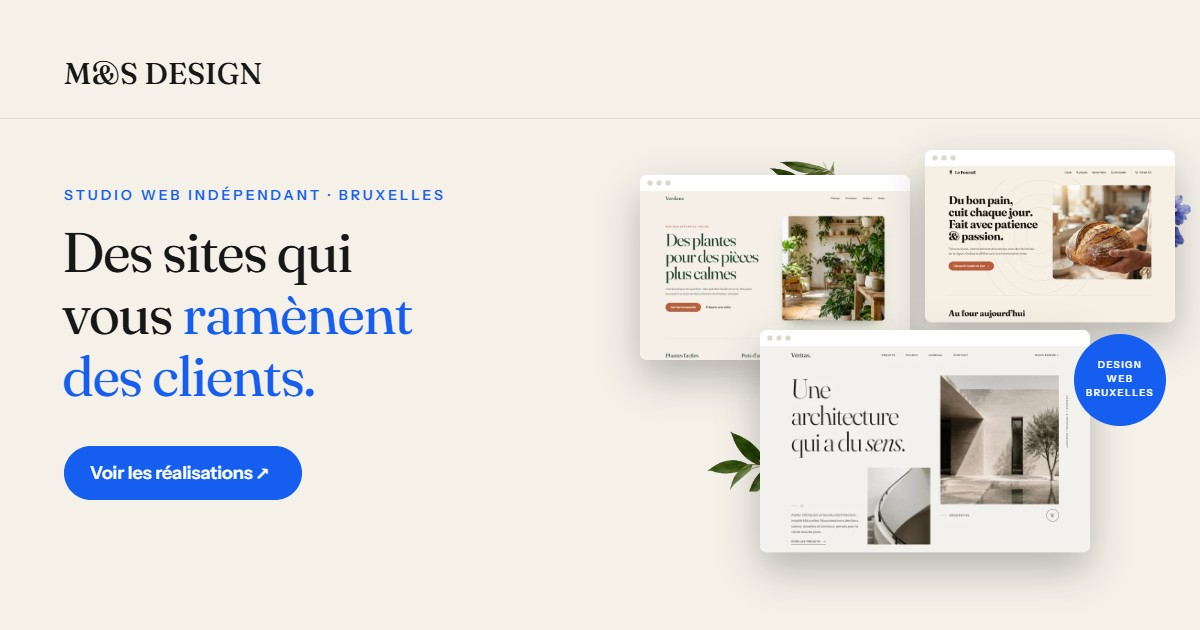
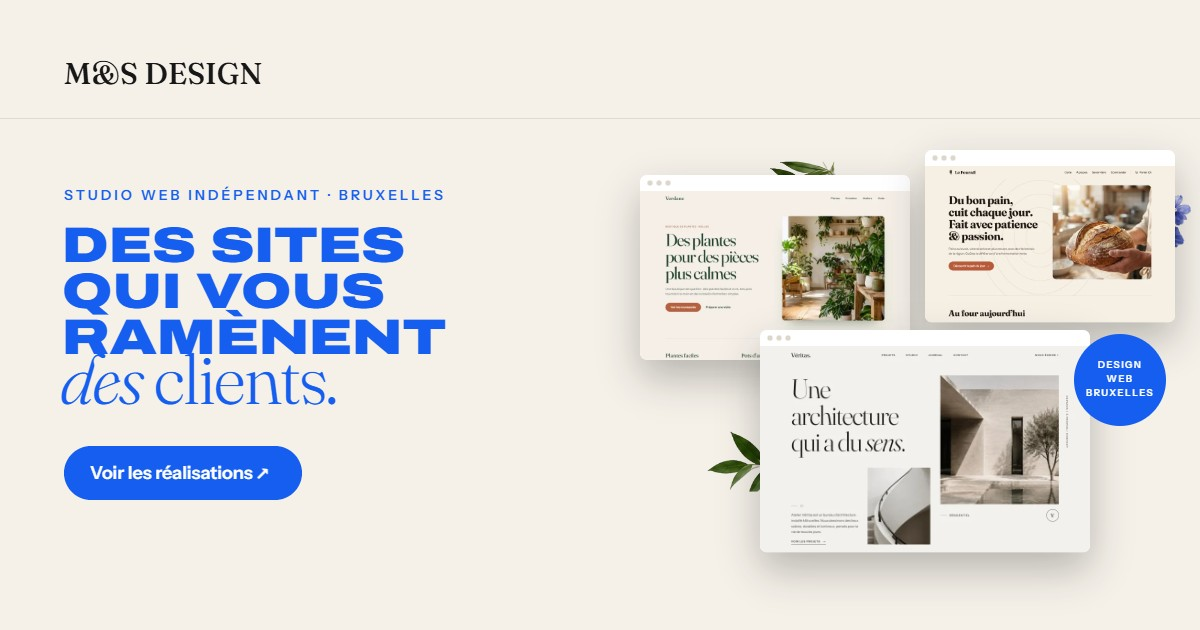
v13 : titre de l'accueil en style affiche, images du haut agrandies
- « Des sites qui vous ramènent des clients. » : DES SITES / QUI VOUS /
  RAMÈNENT en capitales très larges et grasses (Archivo), puis « des
  clients. » en Fraunces fin avec « des » en italique, tout en bleu
- Le collage du héros prend un peu plus de place (colonnes 0,94 / 1,06,
  largeur 104 %)
- Image de partage mise à jour avec le nouveau titre

Changed region(s): [[0.0308, 0.3619, 0.37, 0.6635]]

diff --git a/assets/css/main.css b/assets/css/main.css
@@ -10,6 +10,7 @@
 @font-face { font-family: "Fraunces"; src: url("../fonts/fraunces-italic-300-700-latin.woff2") format("woff2"); font-weight: 300 700; font-style: italic; font-display: swap; }
 @font-face { font-family: "Instrument Sans"; src: url("../fonts/instrument-sans-400-700-latin.woff2") format("woff2"); font-weight: 400 700; font-style: normal; font-display: swap; }
 @font-face { font-family: "Instrument Serif"; src: url("../fonts/instrument-serif-italic-latin.woff2") format("woff2"); font-weight: 400; font-style: italic; font-display: swap; }
+@font-face { font-family: "Archivo"; src: url("../fonts/archivo-var-latin.woff2") format("woff2"); font-weight: 100 900; font-stretch: 62% 125%; font-style: normal; font-display: swap; }
 
 :root {
   --bg: #f5f1e9;
@@ -168,14 +169,18 @@ strong { font-weight: 600; }
    projets en fenêtres de navigateur à droite, une pastille bleue
    ========================================================================== */
 .hero { position: relative; overflow: hidden; background: var(--bg); }
-.hero__grid { display: grid; grid-template-columns: minmax(0, 1fr) minmax(0, 1fr); align-items: center; gap: clamp(28px, 4vw, 72px); padding-top: calc(var(--hdr) + clamp(28px, 7vh, 76px)); padding-bottom: clamp(36px, 6vh, 64px); }
-.hero__title { font: 400 clamp(40px, 4.25vw, 70px)/1.06 var(--display); letter-spacing: -0.028em; color: var(--ink); }
+.hero__grid { display: grid; grid-template-columns: minmax(0, 0.94fr) minmax(0, 1.06fr); align-items: center; gap: clamp(28px, 4vw, 72px); padding-top: calc(var(--hdr) + clamp(28px, 7vh, 76px)); padding-bottom: clamp(36px, 6vh, 64px); }
+/* le titre, comme une affiche : capitales très larges et grasses, puis une ligne en serif */
+.hero__title { color: var(--blue); }
+.hero__title .hl--caps { font: 900 clamp(40px, 5vw, 80px)/0.9 "Archivo", var(--sans); font-stretch: 125%; letter-spacing: -0.005em; text-transform: uppercase; }
+.hero__title .hl--serif { margin-top: 0.1em; font: 300 clamp(54px, 7vw, 116px)/1 var(--display); letter-spacing: -0.035em; }
+.hero__title em { font-style: italic; }
 .hero__title .hl { display: block; }
 .hero__title .accent { color: var(--blue); }
 .hero__lede { margin-top: 26px; max-width: 31em; font: 400 17.5px/1.7 var(--sans); color: var(--ink-2); }
 .hero__actions { display: flex; flex-wrap: wrap; align-items: center; gap: 14px; margin-top: 34px; }
 .btn__icon { width: 16px; height: 16px; }
-.hero__stack { position: relative; aspect-ratio: 1.42; }
+.hero__stack { position: relative; aspect-ratio: 1.42; width: 104%; }
 .win { display: block; color: inherit; text-decoration: none; }
 .win { position: absolute; margin: 0; border-radius: 9px; background: #fff; box-shadow: 0 32px 60px -30px rgba(23, 23, 23, 0.42), 0 0 0 1px rgba(23, 23, 23, 0.06); overflow: hidden; transition: transform 0.9s var(--ease); }
 .win__bar { display: flex; align-items: center; gap: 5px; height: 22px; padding: 0 10px; background: #fff; border-bottom: 1px solid rgba(23, 23, 23, 0.06); }
@@ -207,6 +212,7 @@ html.js .hero__title .hl { display: block; opacity: 0; transform: translateY(0.4
 html.hero-in [data-hero-in], html.hero-in .hero__title .hl { opacity: 1; transform: none; }
 html.hero-in .hero__title .hl:nth-child(2) { transition-delay: 0.08s; }
 html.hero-in .hero__title .hl:nth-child(3) { transition-delay: 0.16s; }
+html.hero-in .hero__title .hl:nth-child(4) { transition-delay: 0.24s; }
 html.hero-in .hero__lede { transition-delay: 0.3s; }
 html.hero-in .hero__actions { transition-delay: 0.4s; }
 html.hero-in .hero__feats { transition-delay: 0.5s; }
@@ -615,12 +621,15 @@ html.js [data-reveal].is-in { opacity: 1; transform: none; }
 @media (max-width: 1080px) {
   .hero__grid { grid-template-columns: minmax(0, 1fr); min-height: 0; }
   .hero__stack { max-width: 720px; width: 100%; margin: 8px auto 0; }
+  .hero__title .hl--caps { font-size: clamp(40px, 9vw, 96px); }
+  .hero__title .hl--serif { font-size: clamp(54px, 12vw, 130px); }
   .projects__grid { grid-template-columns: minmax(0, 1fr); }
   .projects__side { border-left: 0; padding-left: 0; border-top: 1px solid var(--line); padding-top: 22px; display: grid; grid-template-columns: auto 1fr auto; align-items: center; gap: 8px 24px; }
   .projects__info { grid-column: 2; }
 }
 @media (max-width: 640px) {
-  .hero__title { font-size: clamp(32px, 8.9vw, 52px); }
+  .hero__title .hl--caps { font-size: 11.2vw; }
+  .hero__title .hl--serif { font-size: 17vw; }
   .hero__actions .btn { flex: 1 1 100%; }
   .hero__feats, .feats { display: grid; grid-template-columns: repeat(3, minmax(0, 1fr)); }
   .hero__feats li, .feats li { flex-direction: column; align-items: flex-start; gap: 8px; padding: 0 10px; font-size: 12.5px; }

diff --git a/index.html b/index.html
@@ -31,10 +31,11 @@
 <link rel="manifest" href="/msdesign.be/site.webmanifest">
 <link rel="preload" href="/msdesign.be/assets/fonts/instrument-sans-400-700-latin.woff2" as="font" type="font/woff2" crossorigin>
 <link rel="preload" href="/msdesign.be/assets/fonts/fraunces-normal-300-700-latin.woff2" as="font" type="font/woff2" crossorigin>
-<link rel="stylesheet" href="/msdesign.be/assets/css/main.css?v=daab838b30">
+<link rel="preload" href="/msdesign.be/assets/fonts/archivo-var-latin.woff2" as="font" type="font/woff2" crossorigin>
+<link rel="stylesheet" href="/msdesign.be/assets/css/main.css?v=d1a9165299">
 <script>(function(){var d=document.documentElement,l=location,R=false,I=true,m,s;if(l.protocol==='http:'&&!/^(localhost|127\.0\.0\.1|\[::1\])$/.test(l.hostname)){l.replace('https:'+l.href.slice(5));return}d.classList.add('js');try{m=(l.search.match(/[?&]motion=(full|reduce)/)||[])[1];if(m)localStorage.setItem('ms_motion',m);R=localStorage.getItem('ms_motion')==='reduce'}catch(e){}if(R)d.classList.add('reduced');s=(l.search.match(/[?&]intro=(0|1)/)||[])[1];try{if(s!=='1'&&sessionStorage.getItem('ms_intro')==='seen'&&document.referrer.indexOf(l.origin)===0)I=false}catch(e){}if(s==='0'||R||(!s&&l.hash.length>1))I=false;if(d.getAttribute('data-page')==='index'&&I)d.classList.add('intro-on');setTimeout(function(){if(!d.classList.contains('js-ready'))d.classList.remove('js')},6000)})();</script>
-<script src="/msdesign.be/assets/vendor/lenis.min.js?v=daab838b30" defer></script>
-<script src="/msdesign.be/assets/js/app.js?v=daab838b30" defer></script>
+<script src="/msdesign.be/assets/vendor/lenis.min.js?v=d1a9165299" defer></script>
+<script src="/msdesign.be/assets/js/app.js?v=d1a9165299" defer></script>
 <!--/include-->
 <script type="application/ld+json">
 {
@@ -125,7 +126,7 @@
   <div class="wrap hero__grid">
     <div class="hero__copy">
       <p class="eyebrow" data-hero-in>Studio web indépendant · Bruxelles</p>
-      <h1 class="hero__title" id="hero-title" data-hero-in><span class="hl">Des sites qui</span> <span class="hl">vous <span class="accent">ramènent</span></span> <span class="hl accent">des clients.</span></h1>
+      <h1 class="hero__title" id="hero-title" data-hero-in><span class="hl hl--caps">Des sites</span> <span class="hl hl--caps">qui vous</span> <span class="hl hl--caps">ramènent</span> <span class="hl hl--serif"><em>des</em> clients.</span></h1>
       <p class="hero__lede" data-hero-in>Des sites web sur mesure pour les indépendants, commerces et petites entreprises à Bruxelles. Un design soigné, une expérience mobile fluide et un prix fixé avant le début du projet.</p>
       <div class="hero__actions" data-hero-in>
         <a class="btn btn--lg" href="/msdesign.be/#etudes" data-track="cta_hero_projects">Voir les réalisations<svg class="btn__icon" aria-hidden="true"><use href="#i-arrow-ur"/></svg></a>

diff --git a/etudes/index.html b/etudes/index.html
@@ -28,10 +28,11 @@
 <link rel="manifest" href="/msdesign.be/site.webmanifest">
 <link rel="preload" href="/msdesign.be/assets/fonts/instrument-sans-400-700-latin.woff2" as="font" type="font/woff2" crossorigin>
 <link rel="preload" href="/msdesign.be/assets/fonts/fraunces-normal-300-700-latin.woff2" as="font" type="font/woff2" crossorigin>
-<link rel="stylesheet" href="/msdesign.be/assets/css/main.css?v=daab838b30">
+<link rel="preload" href="/msdesign.be/assets/fonts/archivo-var-latin.woff2" as="font" type="font/woff2" crossorigin>
+<link rel="stylesheet" href="/msdesign.be/assets/css/main.css?v=d1a9165299">
 <script>(function(){var d=document.documentElement,l=location,R=false,I=true,m,s;if(l.protocol==='http:'&&!/^(localhost|127\.0\.0\.1|\[::1\])$/.test(l.hostname)){l.replace('https:'+l.href.slice(5));return}d.classList.add('js');try{m=(l.search.match(/[?&]motion=(full|reduce)/)||[])[1];if(m)localStorage.setItem('ms_motion',m);R=localStorage.getItem('ms_motion')==='reduce'}catch(e){}if(R)d.classList.add('reduced');s=(l.search.match(/[?&]intro=(0|1)/)||[])[1];try{if(s!=='1'&&sessionStorage.getItem('ms_intro')==='seen'&&document.referrer.indexOf(l.origin)===0)I=false}catch(e){}if(s==='0'||R||(!s&&l.hash.length>1))I=false;if(d.getAttribute('data-page')==='index'&&I)d.classList.add('intro-on');setTimeout(function(){if(!d.classList.contains('js-ready'))d.classList.remove('js')},6000)})();</script>
-<script src="/msdesign.be/assets/vendor/lenis.min.js?v=daab838b30" defer></script>
-<script src="/msdesign.be/assets/js/app.js?v=daab838b30" defer></script>
+<script src="/msdesign.be/assets/vendor/lenis.min.js?v=d1a9165299" defer></script>
+<script src="/msdesign.be/assets/js/app.js?v=d1a9165299" defer></script>
 <!--/include-->
 <script type="application/ld+json">
 {

diff --git a/404.html b/404.html
@@ -18,10 +18,11 @@
 <link rel="manifest" href="/msdesign.be/site.webmanifest">
 <link rel="preload" href="/msdesign.be/assets/fonts/instrument-sans-400-700-latin.woff2" as="font" type="font/woff2" crossorigin>
 <link rel="preload" href="/msdesign.be/assets/fonts/fraunces-normal-300-700-latin.woff2" as="font" type="font/woff2" crossorigin>
-<link rel="stylesheet" href="/msdesign.be/assets/css/main.css?v=daab838b30">
+<link rel="preload" href="/msdesign.be/assets/fonts/archivo-var-latin.woff2" as="font" type="font/woff2" crossorigin>
+<link rel="stylesheet" href="/msdesign.be/assets/css/main.css?v=d1a9165299">
 <script>(function(){var d=document.documentElement,l=location,R=false,I=true,m,s;if(l.protocol==='http:'&&!/^(localhost|127\.0\.0\.1|\[::1\])$/.test(l.hostname)){l.replace('https:'+l.href.slice(5));return}d.classList.add('js');try{m=(l.search.match(/[?&]motion=(full|reduce)/)||[])[1];if(m)localStorage.setItem('ms_motion',m);R=localStorage.getItem('ms_motion')==='reduce'}catch(e){}if(R)d.classList.add('reduced');s=(l.search.match(/[?&]intro=(0|1)/)||[])[1];try{if(s!=='1'&&sessionStorage.getItem('ms_intro')==='seen'&&document.referrer.indexOf(l.origin)===0)I=false}catch(e){}if(s==='0'||R||(!s&&l.hash.length>1))I=false;if(d.getAttribute('data-page')==='index'&&I)d.classList.add('intro-on');setTimeout(function(){if(!d.classList.contains('js-ready'))d.classList.remove('js')},6000)})();</script>
-<script src="/msdesign.be/assets/vendor/lenis.min.js?v=daab838b30" defer></script>
-<script src="/msdesign.be/assets/js/app.js?v=daab838b30" defer></script>
+<script src="/msdesign.be/assets/vendor/lenis.min.js?v=d1a9165299" defer></script>
+<script src="/msdesign.be/assets/js/app.js?v=d1a9165299" defer></script>
 <!--/include-->
 </head>
 <body>

diff --git a/cgu.html b/cgu.html
@@ -28,10 +28,11 @@
 <link rel="manifest" href="/msdesign.be/site.webmanifest">
 <link rel="preload" href="/msdesign.be/assets/fonts/instrument-sans-400-700-latin.woff2" as="font" type="font/woff2" crossorigin>
 <link rel="preload" href="/msdesign.be/assets/fonts/fraunces-normal-300-700-latin.woff2" as="font" type="font/woff2" crossorigin>
-<link rel="stylesheet" href="/msdesign.be/assets/css/main.css?v=daab838b30">
+<link rel="preload" href="/msdesign.be/assets/fonts/archivo-var-latin.woff2" as="font" type="font/woff2" crossorigin>
+<link rel="stylesheet" href="/msdesign.be/assets/css/main.css?v=d1a9165299">
 <script>(function(){var d=document.documentElement,l=location,R=false,I=true,m,s;if(l.protocol==='http:'&&!/^(localhost|127\.0\.0\.1|\[::1\])$/.test(l.hostname)){l.replace('https:'+l.href.slice(5));return}d.classList.add('js');try{m=(l.search.match(/[?&]motion=(full|reduce)/)||[])[1];if(m)localStorage.setItem('ms_motion',m);R=localStorage.getItem('ms_motion')==='reduce'}catch(e){}if(R)d.classList.add('reduced');s=(l.search.match(/[?&]intro=(0|1)/)||[])[1];try{if(s!=='1'&&sessionStorage.getItem('ms_intro')==='seen'&&document.referrer.indexOf(l.origin)===0)I=false}catch(e){}if(s==='0'||R||(!s&&l.hash.length>1))I=false;if(d.getAttribute('data-page')==='index'&&I)d.classList.add('intro-on');setTimeout(function(){if(!d.classList.contains('js-ready'))d.classList.remove('js')},6000)})();</script>
-<script src="/msdesign.be/assets/vendor/lenis.min.js?v=daab838b30" defer></script>
-<script src="/msdesign.be/assets/js/app.js?v=daab838b30" defer></script>
+<script src="/msdesign.be/assets/vendor/lenis.min.js?v=d1a9165299" defer></script>
+<script src="/msdesign.be/assets/js/app.js?v=d1a9165299" defer></script>
 <!--/include-->
 </head>
 <body>

diff --git a/confidentialite.html b/confidentialite.html
@@ -28,10 +28,11 @@
 <link rel="manifest" href="/msdesign.be/site.webmanifest">
 <link rel="preload" href="/msdesign.be/assets/fonts/instrument-sans-400-700-latin.woff2" as="font" type="font/woff2" crossorigin>
 <link rel="preload" href="/msdesign.be/assets/fonts/fraunces-normal-300-700-latin.woff2" as="font" type="font/woff2" crossorigin>
-<link rel="stylesheet" href="/msdesign.be/assets/css/main.css?v=daab838b30">
+<link rel="preload" href="/msdesign.be/assets/fonts/archivo-var-latin.woff2" as="font" type="font/woff2" crossorigin>
+<link rel="stylesheet" href="/msdesign.be/assets/css/main.css?v=d1a9165299">
 <script>(function(){var d=document.documentElement,l=location,R=false,I=true,m,s;if(l.protocol==='http:'&&!/^(localhost|127\.0\.0\.1|\[::1\])$/.test(l.hostname)){l.replace('https:'+l.href.slice(5));return}d.classList.add('js');try{m=(l.search.match(/[?&]motion=(full|reduce)/)||[])[1];if(m)localStorage.setItem('ms_motion',m);R=localStorage.getItem('ms_motion')==='reduce'}catch(e){}if(R)d.classList.add('reduced');s=(l.search.match(/[?&]intro=(0|1)/)||[])[1];try{if(s!=='1'&&sessionStorage.getItem('ms_intro')==='seen'&&document.referrer.indexOf(l.origin)===0)I=false}catch(e){}if(s==='0'||R||(!s&&l.hash.length>1))I=false;if(d.getAttribute('data-page')==='index'&&I)d.classList.add('intro-on');setTimeout(function(){if(!d.classList.contains('js-ready'))d.classList.remove('js')},6000)})();</script>
-<script src="/msdesign.be/assets/vendor/lenis.min.js?v=daab838b30" defer></script>
-<script src="/msdesign.be/assets/js/app.js?v=daab838b30" defer></script>
+<script src="/msdesign.be/assets/vendor/lenis.min.js?v=d1a9165299" defer></script>
+<script src="/msdesign.be/assets/js/app.js?v=d1a9165299" defer></script>
 <!--/include-->
 </head>
 <body>

diff --git a/merci.html b/merci.html
@@ -18,10 +18,11 @@
 <link rel="manifest" href="/msdesign.be/site.webmanifest">
 <link rel="preload" href="/msdesign.be/assets/fonts/instrument-sans-400-700-latin.woff2" as="font" type="font/woff2" crossorigin>
 <link rel="preload" href="/msdesign.be/assets/fonts/fraunces-normal-300-700-latin.woff2" as="font" type="font/woff2" crossorigin>
-<link rel="stylesheet" href="/msdesign.be/assets/css/main.css?v=daab838b30">
+<link rel="preload" href="/msdesign.be/assets/fonts/archivo-var-latin.woff2" as="font" type="font/woff2" crossorigin>
+<link rel="stylesheet" href="/msdesign.be/assets/css/main.css?v=d1a9165299">
 <script>(function(){var d=document.documentElement,l=location,R=false,I=true,m,s;if(l.protocol==='http:'&&!/^(localhost|127\.0\.0\.1|\[::1\])$/.test(l.hostname)){l.replace('https:'+l.href.slice(5));return}d.classList.add('js');try{m=(l.search.match(/[?&]motion=(full|reduce)/)||[])[1];if(m)localStorage.setItem('ms_motion',m);R=localStorage.getItem('ms_motion')==='reduce'}catch(e){}if(R)d.classList.add('reduced');s=(l.search.match(/[?&]intro=(0|1)/)||[])[1];try{if(s!=='1'&&sessionStorage.getItem('ms_intro')==='seen'&&document.referrer.indexOf(l.origin)===0)I=false}catch(e){}if(s==='0'||R||(!s&&l.hash.length>1))I=false;if(d.getAttribute('data-page')==='index'&&I)d.classList.add('intro-on');setTimeout(function(){if(!d.classList.contains('js-ready'))d.classList.remove('js')},6000)})();</script>
-<script src="/msdesign.be/assets/vendor/lenis.min.js?v=daab838b30" defer></script>
-<script src="/msdesign.be/assets/js/app.js?v=daab838b30" defer></script>
+<script src="/msdesign.be/assets/vendor/lenis.min.js?v=d1a9165299" defer></script>
+<script src="/msdesign.be/assets/js/app.js?v=d1a9165299" defer></script>
 <!--/include-->
 </head>
 <body>

diff --git a/partials/head.html b/partials/head.html
@@ -9,6 +9,7 @@
 <link rel="manifest" href="/msdesign.be/site.webmanifest">
 <link rel="preload" href="/msdesign.be/assets/fonts/instrument-sans-400-700-latin.woff2" as="font" type="font/woff2" crossorigin>
 <link rel="preload" href="/msdesign.be/assets/fonts/fraunces-normal-300-700-latin.woff2" as="font" type="font/woff2" crossorigin>
+<link rel="preload" href="/msdesign.be/assets/fonts/archivo-var-latin.woff2" as="font" type="font/woff2" crossorigin>
 <link rel="stylesheet" href="/msdesign.be/assets/css/main.css?v=dev">
 <script></script>
 <script src="/msdesign.be/assets/vendor/lenis.min.js?v=dev" defer></script>

diff --git a/README.md b/README.md
@@ -10,11 +10,13 @@ Une direction artistique éditoriale, reprise de la maquette validée : crème #
 #171717, bleu électrique #155EEF pour les actions, vert sauge #DCE5D7 en accent.
 
 - **Fraunces** pour les titres ;
+- **Archivo** (gras, très large) pour les capitales du titre de l’accueil ;
 - **Instrument Sans** pour les textes et les étiquettes (capitales espacées, en bleu) ;
 - l’italique d’**Instrument Serif** pour les « ??? » du projet secret.
 
 **Le héros** : l’étiquette « Studio web indépendant · Bruxelles », le titre « Des sites qui vous
-ramènent des clients. » (« ramènent » et « des clients. » en bleu), deux boutons (« Voir les
+ramènent des clients. » en bleu, comme une affiche (capitales très larges en Archivo, puis « des
+clients. » en Fraunces fin), deux boutons (« Voir les
 réalisations », « Demander un devis ») et trois atouts (design sur mesure, responsive, prix fixe).
 À droite, trois exemples de sites en fenêtres de navigateur (Verdane, Le Fournil, Atelier Véritas),
 cliquables, des feuilles, des fleurs bleues et la pastille « Design web Bruxelles ». Ensuite,
